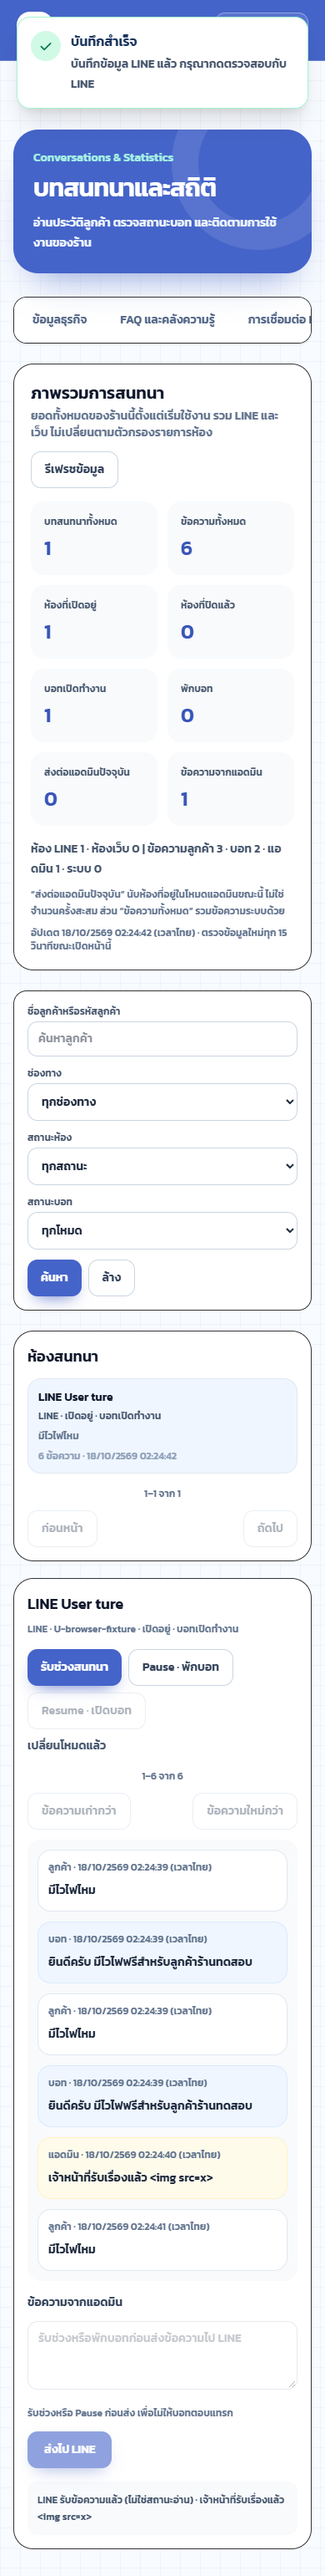
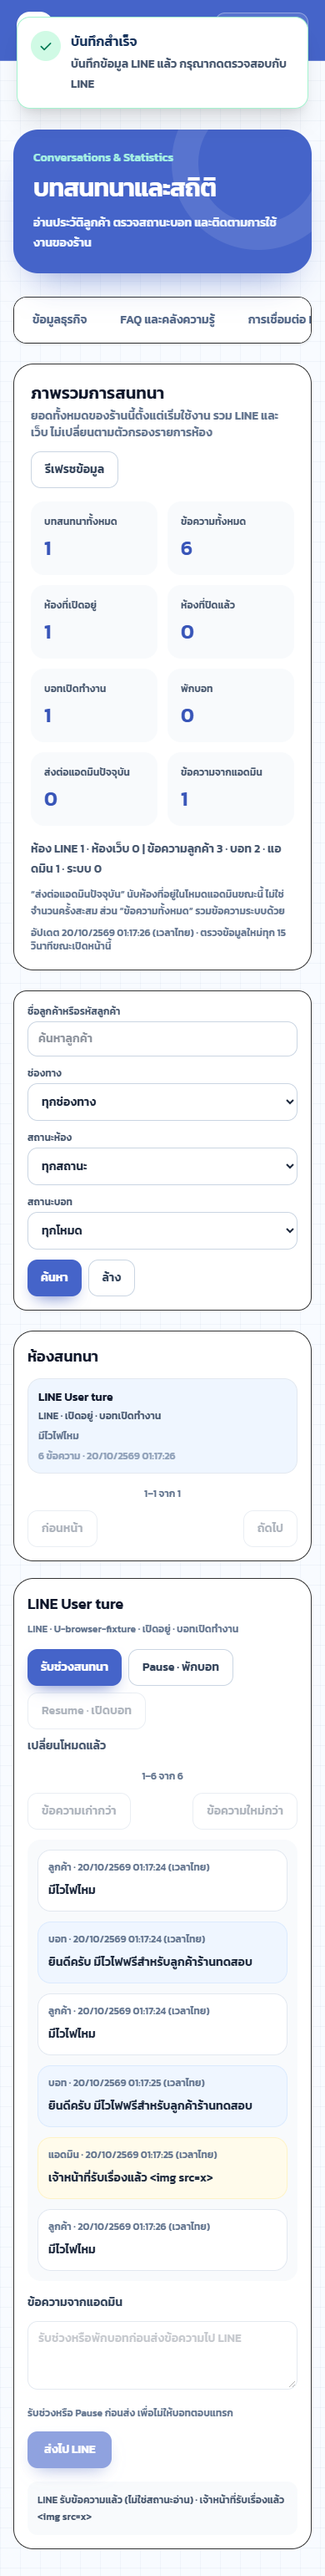
docs: บันทึกผลทดสอบและความพร้อมสาธิต

Changed region(s): [[0.2462, 0.7787, 0.6462, 0.8099]]

diff --git a/reports/task11/report.md b/reports/task11/report.md
@@ -1,6 +1,6 @@
 # ผลวัดข้อ 11 — fixtures ในเครื่อง
 
-เวลา: 2026-10-17T19:23:43.031Z
+เวลา: 2026-10-19T18:17:22.052Z
 
 **ไม่ใช่ผลจากลูกค้า LINE จริง โมเดล AI จริง หรือคะแนนประเมินโดยมนุษย์**
 
@@ -10,7 +10,7 @@
 | failover | 7 | 7 |
 | handover | 7 | 7 |
 
-เวลา webhook → worker → DB (local): p50 114.35 ms, p95 157.9 ms; ไม่รวม LINE network/เวลาคิดของแอดมิน
+เวลา webhook → worker → DB (local): p50 84.45 ms, p95 142.11 ms; ไม่รวม LINE network/เวลาคิดของแอดมิน
 
 ค่าเรียก LINE/AI ภายนอกในรอบนี้: 0 USD เพราะใช้ test transport และ local HTTP provider; ค่าใช้งานจริงต่อเดือน/จำนวน tokens ยังไม่วัด
 
@@ -18,51 +18,51 @@
 
 | ID | ผล | เวลา ms | คำตอบจริง (fixture) |
 |---|---|---:|---|
-| coffee-hours | ผ่าน | 174.04 | ยินดีครับ ร้านบ้านกาแฟเปิดทุกวัน 08:00-18:00 |
-| coffee-hours-paraphrase | ผ่าน | 145.31 | ยินดีครับ เวลาเปิดให้บริการ: ทุกวัน 08:00-18:00 |
-| coffee-hours-close | ผ่าน | 127.81 | ยินดีครับ เวลาเปิดให้บริการ: ทุกวัน 08:00-18:00 |
-| coffee-menu | ผ่าน | 114.35 | ยินดีครับ อเมริกาโนเย็น 60 บาท ลาเต้เย็น 75 บาท ครัวซองต์ 85 บาท |
-| coffee-americano | ผ่าน | 130.54 | ยินดีครับ อเมริกาโนเย็น 60 บาท ลาเต้เย็น 75 บาท ครัวซองต์ 85 บาท |
-| coffee-croissant | ผ่าน | 112.54 | ยินดีครับ อเมริกาโนเย็น 60 บาท ลาเต้เย็น 75 บาท ครัวซองต์ 85 บาท |
-| coffee-delivery | ผ่าน | 111.19 | ยินดีครับ รับสินค้าที่ร้านเท่านั้น ยังไม่มีบริการจัดส่ง |
-| coffee-pickup | ผ่าน | 105.92 | ยินดีครับ รับสินค้าที่ร้านเท่านั้น ยังไม่มีบริการจัดส่ง |
-| coffee-name | ผ่าน | 127.42 | ยินดีครับ ชื่อร้าน: บ้านกาแฟ |
-| coffee-parking | ผ่าน | 113.81 | ขออภัย ยังไม่มีข้อมูลที่ยืนยันคำตอบนี้ได้ กรุณาติดต่อเจ้าหน้าที่ |
-| coffee-jobs | ผ่าน | 131.29 | ขออภัย ยังไม่มีข้อมูลที่ยืนยันคำตอบนี้ได้ กรุณาติดต่อเจ้าหน้าที่ |
-| coffee-payment | ผ่าน | 127.25 | ขออภัย ยังไม่มีข้อมูลที่ยืนยันคำตอบนี้ได้ กรุณาติดต่อเจ้าหน้าที่ |
-| coffee-promotion | ผ่าน | 157.9 | ขออภัย ยังไม่มีข้อมูลที่ยืนยันคำตอบนี้ได้ กรุณาติดต่อเจ้าหน้าที่ |
-| coffee-draft | ผ่าน | 122.65 | ขออภัย ยังไม่มีข้อมูลที่ยืนยันคำตอบนี้ได้ กรุณาติดต่อเจ้าหน้าที่ |
-| coffee-cross-shop-rose | ผ่าน | 113.3 | ขออภัย ยังไม่มีข้อมูลที่ยืนยันคำตอบนี้ได้ กรุณาติดต่อเจ้าหน้าที่ |
-| flower-hours | ผ่าน | 119.55 | ยินดีครับ ร้านบ้านดอกไม้เปิดจันทร์-เสาร์ 09:00-19:00 และปิดวันอาทิตย์ |
-| flower-hours-paraphrase | ผ่าน | 132.67 | ยินดีครับ เวลาเปิดให้บริการ: จันทร์-เสาร์ 09:00-19:00 ปิดวันอาทิตย์ |
-| flower-sunday | ผ่าน | 105.41 | ยินดีครับ ร้านบ้านดอกไม้เปิดจันทร์-เสาร์ 09:00-19:00 และปิดวันอาทิตย์ |
-| flower-rose | ผ่าน | 110.07 | ยินดีครับ ช่อกุหลาบเริ่มต้น 590 บาท ช่อดอกไม้รวมเริ่มต้น 390 บาท |
-| flower-bouquet | ผ่าน | 103.52 | ยินดีครับ ช่อกุหลาบเริ่มต้น 590 บาท ช่อดอกไม้รวมเริ่มต้น 390 บาท |
-| flower-delivery | ผ่าน | 115.85 | ยินดีครับ จัดส่งภายในเมือง ค่าจัดส่ง 50 บาท กรุณาสั่งล่วงหน้า 1 วัน |
-| flower-delivery-price | ผ่าน | 113.88 | ยินดีครับ จัดส่งภายในเมือง ค่าจัดส่ง 50 บาท กรุณาสั่งล่วงหน้า 1 วัน |
-| flower-delivery-advance | ผ่าน | 106.65 | ยินดีครับ จัดส่งภายในเมือง ค่าจัดส่ง 50 บาท กรุณาสั่งล่วงหน้า 1 วัน |
-| flower-name | ผ่าน | 106.14 | ยินดีครับ ชื่อร้าน: บ้านดอกไม้ |
-| flower-parking | ผ่าน | 102.63 | ขออภัย ยังไม่มีข้อมูลที่ยืนยันคำตอบนี้ได้ กรุณาติดต่อเจ้าหน้าที่ |
-| flower-refund | ผ่าน | 121.44 | ขออภัย ยังไม่มีข้อมูลที่ยืนยันคำตอบนี้ได้ กรุณาติดต่อเจ้าหน้าที่ |
-| flower-wifi | ผ่าน | 128.4 | ขออภัย ยังไม่มีข้อมูลที่ยืนยันคำตอบนี้ได้ กรุณาติดต่อเจ้าหน้าที่ |
-| flower-cross-shop-coffee | ผ่าน | 109.71 | ขออภัย ยังไม่มีข้อมูลที่ยืนยันคำตอบนี้ได้ กรุณาติดต่อเจ้าหน้าที่ |
+| coffee-hours | ผ่าน | 85.75 | ยินดีครับ ร้านบ้านกาแฟเปิดทุกวัน 08:00-18:00 |
+| coffee-hours-paraphrase | ผ่าน | 73.37 | ยินดีครับ เวลาเปิดให้บริการ: ทุกวัน 08:00-18:00 |
+| coffee-hours-close | ผ่าน | 80.1 | ยินดีครับ เวลาเปิดให้บริการ: ทุกวัน 08:00-18:00 |
+| coffee-menu | ผ่าน | 83.63 | ยินดีครับ อเมริกาโนเย็น 60 บาท ลาเต้เย็น 75 บาท ครัวซองต์ 85 บาท |
+| coffee-americano | ผ่าน | 79.64 | ยินดีครับ อเมริกาโนเย็น 60 บาท ลาเต้เย็น 75 บาท ครัวซองต์ 85 บาท |
+| coffee-croissant | ผ่าน | 68.43 | ยินดีครับ อเมริกาโนเย็น 60 บาท ลาเต้เย็น 75 บาท ครัวซองต์ 85 บาท |
+| coffee-delivery | ผ่าน | 91.13 | ยินดีครับ รับสินค้าที่ร้านเท่านั้น ยังไม่มีบริการจัดส่ง |
+| coffee-pickup | ผ่าน | 81.48 | ยินดีครับ รับสินค้าที่ร้านเท่านั้น ยังไม่มีบริการจัดส่ง |
+| coffee-name | ผ่าน | 182.55 | ยินดีครับ ชื่อร้าน: บ้านกาแฟ |
+| coffee-parking | ผ่าน | 142.11 | ขออภัย ยังไม่มีข้อมูลที่ยืนยันคำตอบนี้ได้ กรุณาติดต่อเจ้าหน้าที่ |
+| coffee-jobs | ผ่าน | 116.24 | ขออภัย ยังไม่มีข้อมูลที่ยืนยันคำตอบนี้ได้ กรุณาติดต่อเจ้าหน้าที่ |
+| coffee-payment | ผ่าน | 84.45 | ขออภัย ยังไม่มีข้อมูลที่ยืนยันคำตอบนี้ได้ กรุณาติดต่อเจ้าหน้าที่ |
+| coffee-promotion | ผ่าน | 108.26 | ขออภัย ยังไม่มีข้อมูลที่ยืนยันคำตอบนี้ได้ กรุณาติดต่อเจ้าหน้าที่ |
+| coffee-draft | ผ่าน | 92.51 | ขออภัย ยังไม่มีข้อมูลที่ยืนยันคำตอบนี้ได้ กรุณาติดต่อเจ้าหน้าที่ |
+| coffee-cross-shop-rose | ผ่าน | 77.9 | ขออภัย ยังไม่มีข้อมูลที่ยืนยันคำตอบนี้ได้ กรุณาติดต่อเจ้าหน้าที่ |
+| flower-hours | ผ่าน | 89.9 | ยินดีครับ ร้านบ้านดอกไม้เปิดจันทร์-เสาร์ 09:00-19:00 และปิดวันอาทิตย์ |
+| flower-hours-paraphrase | ผ่าน | 90.76 | ยินดีครับ เวลาเปิดให้บริการ: จันทร์-เสาร์ 09:00-19:00 ปิดวันอาทิตย์ |
+| flower-sunday | ผ่าน | 90.31 | ยินดีครับ ร้านบ้านดอกไม้เปิดจันทร์-เสาร์ 09:00-19:00 และปิดวันอาทิตย์ |
+| flower-rose | ผ่าน | 78.71 | ยินดีครับ ช่อกุหลาบเริ่มต้น 590 บาท ช่อดอกไม้รวมเริ่มต้น 390 บาท |
+| flower-bouquet | ผ่าน | 100.54 | ยินดีครับ ช่อกุหลาบเริ่มต้น 590 บาท ช่อดอกไม้รวมเริ่มต้น 390 บาท |
+| flower-delivery | ผ่าน | 103.58 | ยินดีครับ จัดส่งภายในเมือง ค่าจัดส่ง 50 บาท กรุณาสั่งล่วงหน้า 1 วัน |
+| flower-delivery-price | ผ่าน | 74.56 | ยินดีครับ จัดส่งภายในเมือง ค่าจัดส่ง 50 บาท กรุณาสั่งล่วงหน้า 1 วัน |
+| flower-delivery-advance | ผ่าน | 66.02 | ยินดีครับ จัดส่งภายในเมือง ค่าจัดส่ง 50 บาท กรุณาสั่งล่วงหน้า 1 วัน |
+| flower-name | ผ่าน | 54.49 | ยินดีครับ ชื่อร้าน: บ้านดอกไม้ |
+| flower-parking | ผ่าน | 70.74 | ขออภัย ยังไม่มีข้อมูลที่ยืนยันคำตอบนี้ได้ กรุณาติดต่อเจ้าหน้าที่ |
+| flower-refund | ผ่าน | 85.15 | ขออภัย ยังไม่มีข้อมูลที่ยืนยันคำตอบนี้ได้ กรุณาติดต่อเจ้าหน้าที่ |
+| flower-wifi | ผ่าน | 97.15 | ขออภัย ยังไม่มีข้อมูลที่ยืนยันคำตอบนี้ได้ กรุณาติดต่อเจ้าหน้าที่ |
+| flower-cross-shop-coffee | ผ่าน | 81.64 | ขออภัย ยังไม่มีข้อมูลที่ยืนยันคำตอบนี้ได้ กรุณาติดต่อเจ้าหน้าที่ |
 
 ## Failover
 
-- valid: ผ่าน / generator / 109.58 ms
-- http503: ผ่าน / extractive / 119.53 ms
-- malformed: ผ่าน / extractive / 129.97 ms
-- unsupported: ผ่าน / extractive / 125.37 ms
-- foreign-source: ผ่าน / extractive / 117.17 ms
-- insufficient: ผ่าน / no_evidence / 104.55 ms
-- slow: ผ่าน / extractive / 10125.96 ms
+- valid: ผ่าน / generator / 78.76 ms
+- http503: ผ่าน / extractive / 81.65 ms
+- malformed: ผ่าน / extractive / 91.34 ms
+- unsupported: ผ่าน / extractive / 111.14 ms
+- foreign-source: ผ่าน / extractive / 104.77 ms
+- insufficient: ผ่าน / no_evidence / 155.14 ms
+- slow: ผ่าน / extractive / 10131.32 ms
 
 ## Handover
 
-- takeover: ผ่าน / 20.88 ms
+- takeover: ผ่าน / 16.02 ms
 - no_bot_while_human: ผ่าน
-- agent_push_and_idempotency: ผ่าน / 45.44 ms
-- resume_fresh_event: ผ่าน / 104.74 ms
+- agent_push_and_idempotency: ผ่าน / 51.89 ms
+- resume_fresh_event: ผ่าน / 59.79 ms
 - duplicate_webhook_no_resend: ผ่าน
 - pause_resume_cancels_pending_ai: ผ่าน
 - tenant_and_session_guards: ผ่าน

diff --git a/reports/task12/readiness.md b/reports/task12/readiness.md
@@ -1,0 +1,22 @@
+# สถานะเตรียมสาธิต — 20 ตุลาคม 2026
+
+## สิ่งที่ตรวจในเครื่อง
+
+- Runtime ใช้ PostgreSQL 18; ไม่มีไฟล์ SQLite ต้นทางอยู่ในเครื่องผู้ใช้ จึงเริ่มฐานสาธิตใหม่ ไม่อ้างว่าได้ย้ายข้อมูลเดิม
+- Node 24.19.0 และ npm 11.19.0 ตรงกับโปรเจกต์; `npm ci` ผ่าน และ `npm audit --audit-level=high` พบ 0 vulnerabilities ในรอบนี้
+- Gateway Gemini หลัก/OpenAI สำรองมี timeout, retry/backoff, circuit breaker และตรวจข้อความกับหลักฐานก่อนรับผล ทดสอบด้วย HTTP doubles ไม่ได้เรียกบัญชีจริง
+- `test:runtime` บนโค้ดสุดท้าย 108/108 ผ่าน รวมชุด AI gateway, RAG และ LINE Simulator ที่บันทึกคำตอบของ AI สำรองพร้อมแหล่งอ้างอิง
+- `test:sqlite` 3/3, `test:import` 8/8, `test:postgres` 2/2, `test:postgres:schema` 3/3, `test:line:runtime` 1/1, `test:production` 2/2 ผ่าน
+- `test:evaluation` ล่าสุด: คำถาม 28/28, failover HTTP fixture 7/7, handover 7/7; latency local p50 84.45 ms, p95 142.11 ms ตาม `reports/task11/results.json` ไม่รวมเครือข่าย LINE/AI จริง
+- `test:browser` 11 ขั้นตอนผ่าน, page errors 0, ตรวจภาพ desktop/mobile แล้ว; `npm run build` และ `npm run api:check` ผ่าน
+- สร้างฐาน `chatbot_demo` แยกใน PostgreSQL ชั่วคราว, migrations 001–005 ผ่าน, seed ข้อมูลสมมติสองร้าน, เปิด Next แบบ development ที่ `http://127.0.0.1:3131` และ `demo:preflight` ได้ HTTP 200 ทั้ง 4 เส้นทาง; login ร้านดอกไม้, รายการร้าน, AI preview ที่มีหลักฐาน 1 รายการ และ LINE Simulator ที่ตอบ `extractive` พร้อมแหล่งอ้างอิง 1 รายการผ่าน
+
+## สิ่งที่ยังขาดก่อนอ้างว่าเป็นระบบใช้งานจริง
+
+1. ยังไม่มี Render staging/production หรือ LINE test channel ตามคำตอบผู้ใช้ จึงไม่มี URL ภายนอกหรือผลส่งถึงอุปกรณ์จริง
+2. ยังไม่กำหนด API keys, สิทธิ์โมเดล หรือ budget ของ Gemini/OpenAI; ต้องทดสอบทั้งสอง API จริงและบันทึก tokens, ราคา และเวลาเครือข่ายหลังตั้งค่า
+3. `reports/task11/human-review.csv` ยังต้องให้คนให้คะแนนคำตอบจริง; ผลอัตโนมัติไม่แทนคะแนนมนุษย์
+4. ต้องเลือกบริการ/แผนค่าใช้จ่าย, ตั้ง secret store, backup/restore, ตรวจ persistence หลัง redeploy และผ่าน staging gate ใน `docs/render-staging.md` ก่อนเปิด LINE จริง
+5. Docker PostgreSQL สำหรับรอบตรวจนี้เป็นคอนเทนเนอร์ `--rm` แยก ไม่มี volume ถาวร ไม่ใช่ฐาน deploy หรือ backup ของผู้ใช้
+
+ลำดับสาธิตและรายการหลักฐานอยู่ใน `docs/demo-runbook.md` คำตอบและภาพจากการทดสอบอัตโนมัติอยู่ใน `reports/task11/`

diff --git a/AI_CHECKPOINT.md b/AI_CHECKPOINT.md
@@ -6,8 +6,8 @@
 - เพิ่ม `aiProviders.js` เรียก Gemini GenerateContent และ OpenAI Responses แบบ structured JSON โดยรับคีย์จาก environment, ส่งเฉพาะ prompt/หลักฐานของร้าน, ปิดการเก็บ response ในคำขอ OpenAI และปฏิเสธข้อความที่ไม่เป็น substring ของหลักฐานเดียวกัน
 - เพิ่ม `aiGateway.js` ให้ Gemini เป็นหลัก/OpenAI สำรอง จำกัดเวลารวม 8.5 วินาทีและครั้งละ 2 วินาที ลองซ้ำหนึ่งครั้งเฉพาะ transient error โดยเว้น 150 ms พัก provider ที่ล้มสองคำขอเป็นเวลา 30 วินาทีและลอง half-open อีกครั้ง; หากทั้งคู่ล้ม RAG เดิมตอบแบบคัดหลักฐาน/ไม่มีข้อมูล
 - คง HTTP generator เดิมเมื่อไม่ได้ตั้งคีย์สองราย เพิ่มสถานะ AI ใน preview และ env/Compose/docs; `test:runtime` รวมชุด `ai-gateway` ใหม่
-- ตรวจด้วย Node 24.19.0/npm 11.19.0 และ PostgreSQL 18 แยกจากแอปเดิม: runtime 107/107, SQLite 3/3, import 8/8, PostgreSQL 2/2, schema 3/3, LINE lifecycle 1/1, production 2/2, browser 11 ขั้นตอน, evaluation 28/28 + failover 7/7 + handover 7/7, build, api:check, audit 0 vulnerabilities ผ่าน หลังแก้ schema/prompt ขั้นสุดท้าย targeted AI+RAG 15/15 และ evaluation/build ผ่านซ้ำ
-- สร้างฐาน `chatbot_demo` ในคอนเทนเนอร์ PostgreSQL ทดสอบแยก รัน migrations 001–005 และ seed สองร้านสำเร็จ เปิด Next ที่ port 3131 เพื่อตรวจ preflight 4 URL และ login/preview ผ่าน แล้วหยุด server; คอนเทนเนอร์นี้ใช้ `--rm` ไม่มี volume ถาวร
+- ตรวจด้วย Node 24.19.0/npm 11.19.0 และ PostgreSQL 18 แยกจากแอปเดิม: runtime บนโค้ดสุดท้าย 108/108, SQLite 3/3, import 8/8, PostgreSQL 2/2, schema 3/3, LINE lifecycle 1/1, production 2/2, browser 11 ขั้นตอน, evaluation 28/28 + failover 7/7 + handover 7/7, build, api:check, audit 0 vulnerabilities ผ่าน
+- สร้างฐาน `chatbot_demo` ในคอนเทนเนอร์ PostgreSQL ทดสอบแยก รัน migrations 001–005 และ seed สองร้านสำเร็จ เปิด Next development ที่ `http://127.0.0.1:3131` เพื่อตรวจ preflight 4 URL, login/preview และ LINE Simulator (ตอบ extractive พร้อมหลักฐาน) ผ่าน; คอนเทนเนอร์นี้ใช้ `--rm` ไม่มี volume ถาวร และ LINE จริงยังปิด
 - เพิ่ม `scripts/demo-preflight.js`, `docs/demo-runbook.md` และ `reports/task12/readiness.md` สำหรับตรวจ release/สาธิตและแยกผลจำลองจากผลจริง
 - สิ่งที่ยังต้องทำเมื่อมีบริการ: ตั้ง Render/LINE test channel และ secret store, ทดสอบ API จริงทั้งสองรายและ LINE ถึงอุปกรณ์, ให้คนให้คะแนน `human-review.csv`, วัด tokens/ค่าใช้จ่าย/latency จริง, ซ้อม backup/restore และตรวจ staging/cutover ห้ามนับผล fixture เป็น production ผ่าน
 

diff --git a/docs/demo-runbook.md b/docs/demo-runbook.md
@@ -10,6 +10,8 @@
 4. ใช้ข้อมูลสมมติ: `npm run db:seed` เฉพาะ local/development; production seed ถูกปฏิเสธ สมัครบัญชีและสร้างร้านผ่านหน้าเว็บแทน
 5. ก่อนเปิด LINE จริง ตรวจ backup/restore บนฐานแยกและขั้น cutover ใน [production-cutover.md](production-cutover.md)
 
+สำหรับการซ้อมบนเครื่องหลังเตรียมฐาน local ให้ตั้ง `LINE_WORKER_ENABLED=false` แล้วรัน `npm run dev -- --port 3131` เปิด `http://127.0.0.1:3131` และใช้ LINE Simulator ในหน้าตั้งค่าร้าน ทดสอบ webhook/การส่ง LINE จริงไม่ได้จาก localhost เมื่อใช้ข้อมูล seed ให้เปิดเฉพาะเครื่องตัวเอง
+
 ## 2. ตรวจอัตโนมัติ
 
 ```powershell
